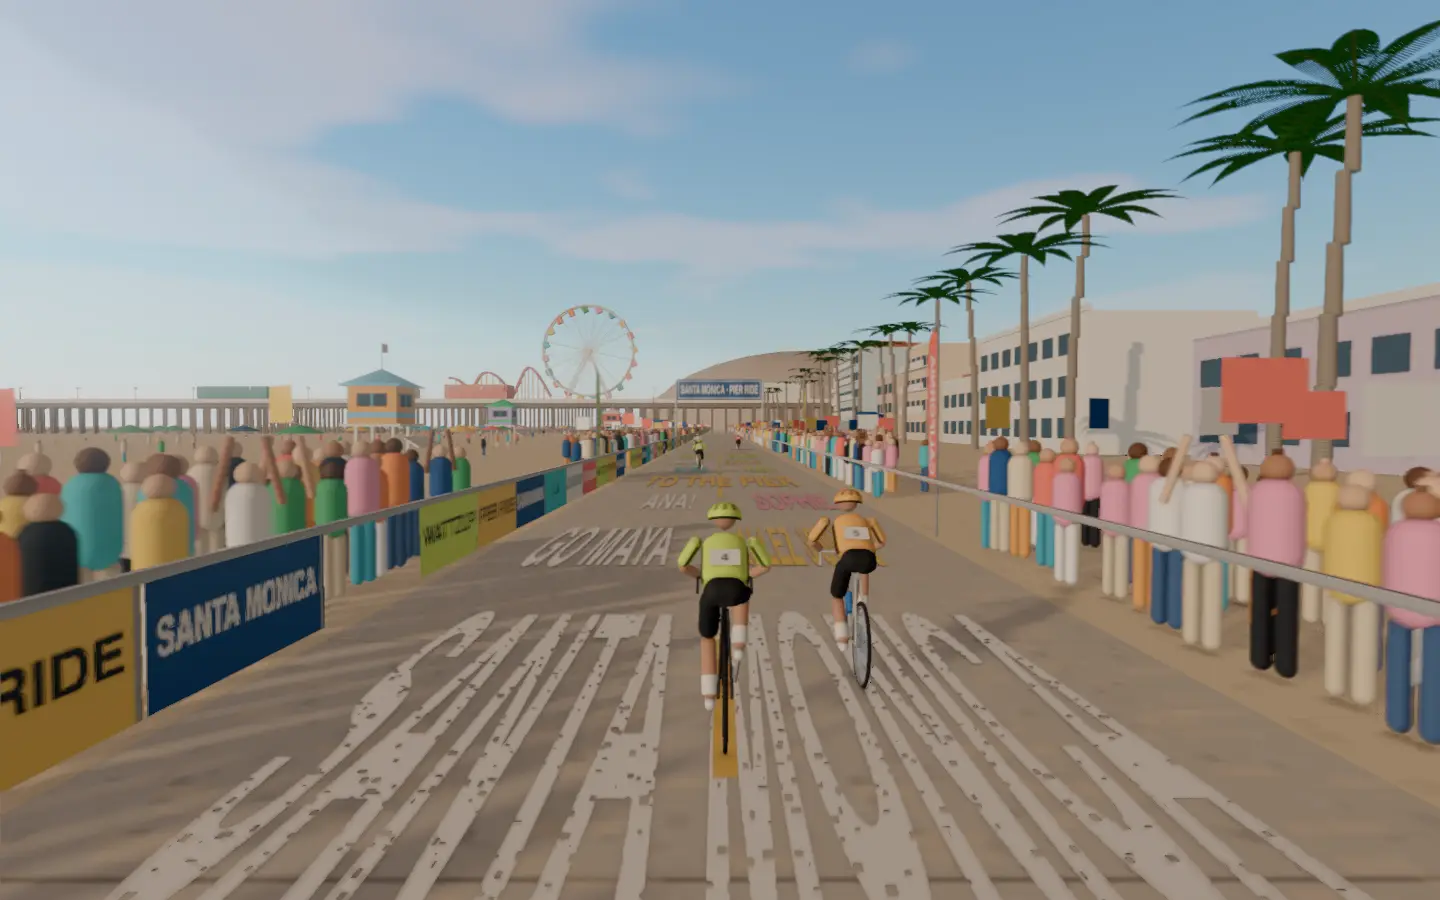
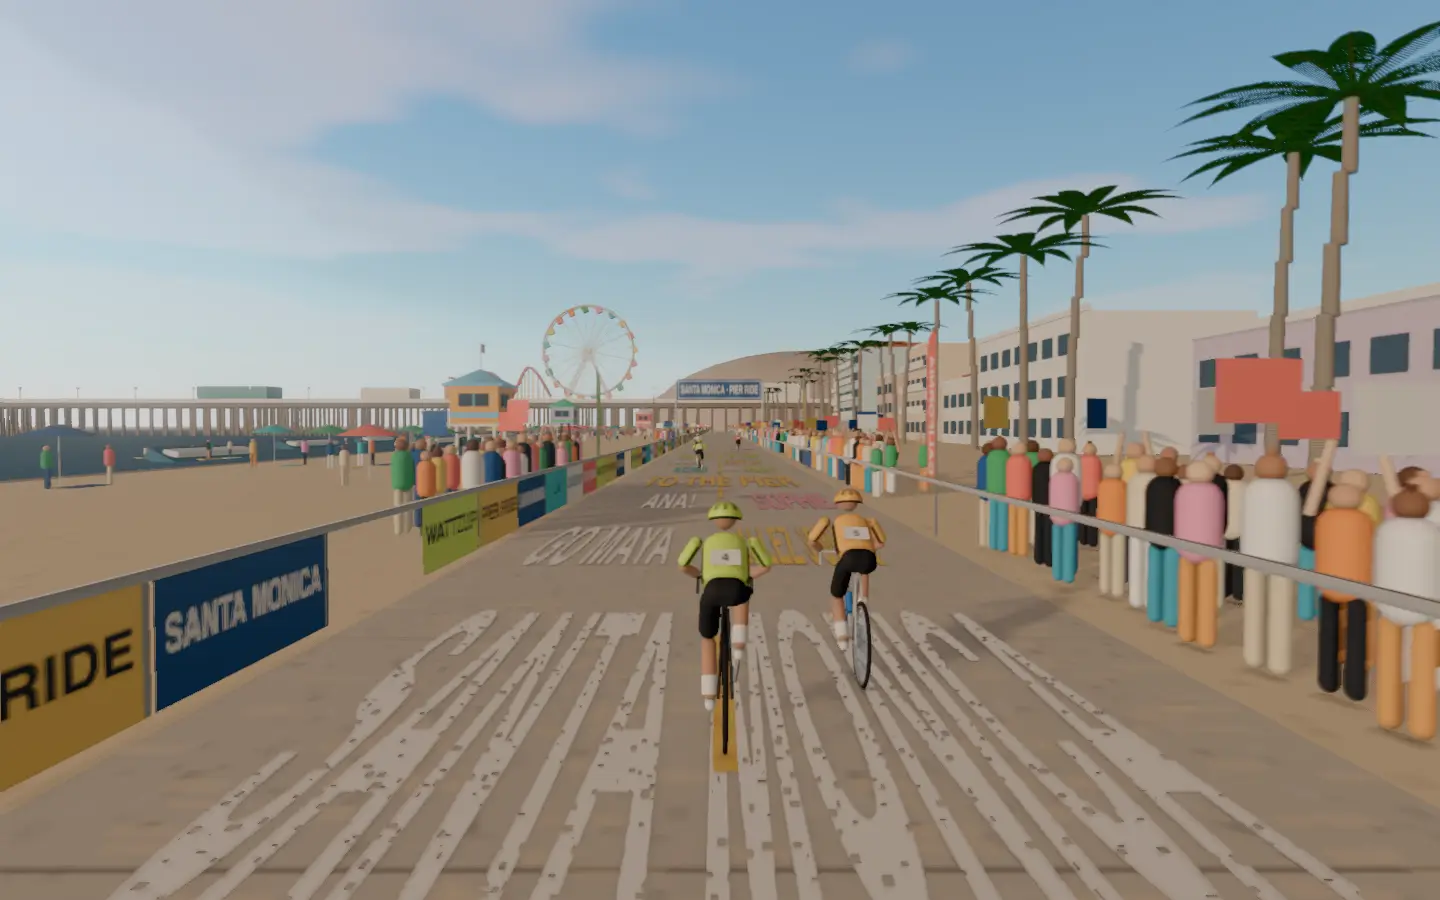
Open Santa Monica's beach to the breakers and the surfers

diff --git a/frontend/projects/wattzup/src/app/core/world-santamonica.ts b/frontend/projects/wattzup/src/app/core/world-santamonica.ts
@@ -58,7 +58,7 @@ const BARRIER = 3.9;
 const CROWD_NEAR = 4.4;
 const CROWD_FAR = 6.8;
 /** The surf this far out on the left, the palms and the front's houses on the right. */
-const SURF = 60;
+const SURF = 34;
 const PALMS = 11;
 const FRONT = 26;
 /** The horizon this far ahead. */
@@ -145,7 +145,8 @@ export class SantaMonicaStreet implements SceneStreet {
     private readonly disposables: { dispose(): void }[],
   ) {
     this.ribbons = new Ribbons(this.group, disposables);
-    // Along both sides on the sand, in knots so the beach and the palms show between them.
+    // Along the palms in long files, and on the beach side in short knots 60 m apart, so the
+    // beach, the breakers and the surfers show between them.
     this.crowd = new Crowd(this.group, disposables, {
       loop: LOOP,
       near: CROWD_NEAR,
@@ -155,7 +156,7 @@ export class SantaMonicaStreet implements SceneStreet {
       flags: this.flagMaterials,
       flagShare: 0.12,
       seeds: [6111, 6117],
-      skip: (side, offset) => offset % 36 < (side < 0 ? 14 : 8),
+      skip: (side, offset) => (side < 0 ? offset % 60 < 48 : offset % 36 < 8),
       armsUp: 0.15,
     });
     this.group.add(this.horizon, this.sea);
@@ -183,6 +184,17 @@ export class SantaMonicaStreet implements SceneStreet {
 
   lay(points: readonly StreetPoint[], s: number): void {
     this.ribbons.lay(points, s);
+  }
+
+  /** The ground plane drops below the sea, so the Pacific shows beyond the surf. */
+  sink(ground: BufferGeometry, points: readonly StreetPoint[]): void {
+    const position = ground.getAttribute('position');
+    points.forEach((p, i) => {
+      position.setY(i * 2, p.height - 3);
+      position.setY(i * 2 + 1, p.height - 3);
+    });
+    position.needsUpdate = true;
+    ground.computeBoundingSphere();
   }
 
   place(s: number, heightAt: (metres: number) => number): void {
@@ -302,13 +314,15 @@ export class SantaMonicaStreet implements SceneStreet {
     const boards = ['#ffffff', '#ffd23a', '#ff6a5a', '#2fc8d8', '#f4e4c8'].map((c) =>
       this.material({ color: c, roughness: 0.4 }),
     );
+    const crest = this.material({ color: 0xe8f2f4, roughness: 0.5 });
+    const face = this.material({ color: 0x3a7a98, roughness: 0.2, metalness: 0.2 });
     const CHUNK = 60;
     for (let offset = 0, k = 0; offset < LOOP; offset += CHUNK, k++) {
       const holder = new Group();
       const b = new BoxBuilder();
       const people: [number, number, number, number][] = [];
       for (let n = 0; n < 12; n++) {
-        const x = -BARRIER - 10 - random() ** 1.3 * (SURF - 18);
+        const x = -BARRIER - 7 - random() ** 1.3 * (SURF - 14);
         const z = -random() * CHUNK;
         const u = new Mesh(canopy, umbrellas[Math.floor(random() * umbrellas.length)]!);
         const p = new Mesh(pole, white);
@@ -320,12 +334,24 @@ export class SantaMonicaStreet implements SceneStreet {
         people.push([x + 1.5, -0.3, z - 0.6, 0.95], [x - 1 + random() * 2, -0.3, z + 1.5, 0.95]);
       }
       // The surfers: on their boards beyond the surf, a third standing to ride a breaker.
-      for (let n = 0; n < 9; n++) {
-        const x = -SURF - 8 - random() * 30;
+      // The breakers rolling in: a green-blue face under a white crest, a few to each stretch.
+      const breakers: [number, number][] = [];
+      for (let n = 0; n < 3; n++) {
+        const x = -SURF - 9 - n * 8 - random() * 3;
         const z = -random() * CHUNK;
+        const long = 10 + random() * 14;
+        b.box(face, [2.2, 0.9, long], [x, -0.55, z], -0.5);
+        b.box(crest, [1.2, 0.45, long - 1], [x + 0.6, -0.08, z], -0.2);
+        breakers.push([x, z]);
+      }
+      for (let n = 0; n < 9; n++) {
+        // A third standing to ride a breaker's face, the rest sitting astride waiting beyond.
+        const [bx, bz] = breakers[n % 3]!;
+        const riding = n % 3 === 0;
+        const x = riding ? bx + 1.6 : -SURF - 12 - random() * 24;
+        const z = riding ? bz + (random() - 0.5) * 6 : -random() * CHUNK;
         b.box(boards[n % boards.length]!, [0.55, 0.08, 2.2], [x, -0.66, z]);
-        const standing = n % 3 === 0;
-        people.push([x, standing ? -0.62 : -1.25, z, standing ? 0.9 : 0.95]);
+        people.push([x, riding ? -0.62 : -1.25, z, riding ? 0.9 : 0.95]);
       }
       holder.add(b.build(this.disposables));
       const figures = new Figures(holder, this.disposables, people.length, BEACH, 6131 + k);
@@ -336,7 +362,7 @@ export class SantaMonicaStreet implements SceneStreet {
       const tower = towers.make(k);
       // Ramp down toward the path, the hut looking out to sea.
       tower.rotation.y = Math.PI;
-      tower.position.set(-24 - (k % 2) * 8, -0.3, -30);
+      tower.position.set(-17 - (k % 2) * 6, -0.3, -30);
       holder.add(tower);
       this.group.add(holder);
       this.props.push({ mesh: holder, offset, x: 0 });

diff --git a/docs/detailed-designs/world-ride/draw-class-scene/README.md b/docs/detailed-designs/world-ride/draw-class-scene/README.md
@@ -587,8 +587,8 @@ None.
   - the sea of cloud drifting in the valley, ridge after blue ridge and the páramo's bare ridge ahead, keeping their bearing.
 - **Santa Monica Pier (`core/world-santamonica.ts`).** For `santamonica`, the beach bike path on a late summer afternoon:
   - the path's pale concrete with its dashed yellow centre line, names chalked on it every 8 m (GO MAYA, SURF UP, CARDIO and more) and every third row a slogan right across (SANTA MONICA, TO THE PIER, WATTZUP), laid by the kit's painted rows;
-  - the event's barriers (SANTA MONICA, PIER RIDE, WATTZUP, CALIFORNIA, LOSE WEIGHT FAST, LA), the kit's feather flags along them, two banners across the path (SANTA MONICA · PIER RIDE, WATTZUP · CARDIO 20), and the crowd on the sand on both sides, in knots;
-  - on the left the beach down to the surf 60 m out: umbrellas and towels, bathers (the kit's figures), a painted lifeguard tower every 60 m (the kit's lifeguard towers, moved from South Beach), the wet sand and three lines of foam, and beyond them the surfers on their boards, a third standing to ride a breaker, then the Pacific;
+  - the event's barriers (SANTA MONICA, PIER RIDE, WATTZUP, CALIFORNIA, LOSE WEIGHT FAST, LA), the kit's feather flags along them, two banners across the path (SANTA MONICA · PIER RIDE, WATTZUP · CARDIO 20), and the crowd on the sand: long files along the palms, and on the beach side short knots 60 m apart so the beach shows between them;
+  - on the left the beach down to the surf 34 m out: umbrellas and towels, bathers (the kit's figures), a painted lifeguard tower every 60 m (the kit's lifeguard towers, moved from South Beach), the wet sand and three lines of foam, three breakers to every 60 m rolling in (a green-blue face under a white crest), the surfers on their boards, a third standing to ride a breaker's face and the rest sitting astride beyond, and the Pacific, the ground plane sunk 3 m (`sink`) so the sea shows beyond the surf;
   - on the right a line of palms beside the path, a taller line before the front, and the front's beach houses and low hotels in white stucco and faded pastels, two to five storeys, with rows of windows, balconies on the taller ones and a red-tiled roof on every third;
   - ahead, the pier across the path: its deck on rows of timber pilings from the front out over the surf, its white rail and lamps, the arcades' roofs, the Pacific Park Ferris wheel turning on its A-frames left of the path, the coaster's red track looping on yellow supports beside it, and the Santa Monica Mountains behind the front, two ridges of rounded shoulders far back in blue-grey haze. Everything along the path is hidden past 208 m.
 

diff --git a/docs/class-worlds.md b/docs/class-worlds.md
@@ -64,7 +64,7 @@ Every class in `frontend/public/classes.json`, with its World Ride scene. Render
 | 58 | Spin to Win | Coney Island Boardwalk | 80% | The weathered planks of the Riegelmann Boardwalk run along the Brooklyn shore under stars-and-stripes bunting, past the clam bars and arcades and above a beach crowded with umbrellas, toward the turning Wonder Wheel, the white lattice of the Cyclone and the red Parachute Jump. The three-minute warm-up rolls along the railing above the sand, the opening minute lifts the pace past the clam bars, and the long efforts of two and three minutes push for the Wonder Wheel before the quick-spinning minutes between them roll past the arcades. |
 | 59 | Conquer the Climb | Stelvio Pass | 76% | Forty-eight hairpins stacked up an Italian alpine wall to the snowfields. |
 | 60 | HIIT Leg Buster | Philadelphia Art Museum Steps (concept) |  | Down the Parkway to the famous steps; every effort ends at the top, arms raised. |
-| 61 | 20 Minute Cardio: Lose Weight Fast | Santa Monica Pier | 73% | The beach bike path winds across the golden sand of Santa Monica toward the pier beneath a line of palms, past painted lifeguard towers and the surfers riding the breakers below the pilings, as the Pacific Park Ferris wheel turns over the pier in the late afternoon sun. The three-minute warm-up rolls past the first lifeguard towers, the long efforts of two and three minutes push along the sand under the palms, and the one-minute and half-minute surges sprint for the pier with the easy minutes spun beside the surf. |
+| 61 | 20 Minute Cardio: Lose Weight Fast | Santa Monica Pier | 75% | The beach bike path winds across the golden sand of Santa Monica toward the pier beneath a line of palms, past painted lifeguard towers and the surfers riding the breakers below the pilings, as the Pacific Park Ferris wheel turns over the pier in the late afternoon sun. The three-minute warm-up rolls past the first lifeguard towers, the long efforts of two and three minutes push along the sand under the palms, and the one-minute and half-minute surges sprint for the pier with the easy minutes spun beside the surf. |
 | 62 | 20 Minute HIIT | Edinburgh Fringe | 78% | The Royal Mile packed with street performers and posters in August festival season. |
 | 63 | 20 Min Cardio Spin Bike Workout | Lake Louise (concept) |  | Turquoise glacial lake beneath Rocky Mountain peaks; an easy shoreline road in Banff. |
 | 64 | Sufferfest 20 Minute Session | Death Valley (concept) |  | Badwater heat and salt below sea level, among shimmering dunes. |
